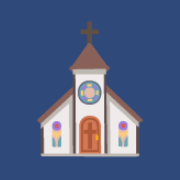
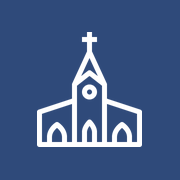
Novo ícone de igreja e imagem de compartilhamento para o WhatsApp
Ícone em azul com a igreja branca (Icons8, com crédito no rodapé) e
compartilhar.jpg (1200x630) nas tags og:image.

Claude-Session: https://claude.ai/code/session_019zbxNGYw6d3AGwf3qqFRis

Changed region(s): [[0.1944, 0.1111, 0.8056, 0.8889]]

diff --git a/index.html b/index.html
@@ -7,8 +7,16 @@
   <meta name="description" content="Serviços, comércios e empresas de irmãos de várias igrejas, com referência pastoral.">
   <link rel="preconnect" href="https://fonts.googleapis.com">
   <link href="https://fonts.googleapis.com/css2?family=Inter:wght@400;500;600;700&display=swap" rel="stylesheet">
-  <link rel="icon" type="image/png" sizes="180x180" href="icone.png">
-  <link rel="icon" type="image/svg+xml" sizes="any" href="icone.svg">
+  <!-- Prévia do link no WhatsApp, Instagram e Facebook -->
+  <meta property="og:type" content="website">
+  <meta property="og:title" content="Guia de Negócios da Igreja">
+  <meta property="og:description" content="Antes de comprar em qualquer lugar, compre de um irmão em Cristo. Serviços, comércios e empresas de irmãos, todos com referência pastoral.">
+  <meta property="og:url" content="https://guia-de-negocios-da-igreja.pages.dev/">
+  <meta property="og:image" content="https://guia-de-negocios-da-igreja.pages.dev/compartilhar.jpg">
+  <meta property="og:image:width" content="1200">
+  <meta property="og:image:height" content="630">
+  <meta name="twitter:card" content="summary_large_image">
+  <link rel="icon" type="image/png" sizes="512x512" href="icone.png">
   <link rel="apple-touch-icon" href="apple-touch-icon.png">
   <link rel="stylesheet" href="estilo.css">
   <script>
@@ -69,6 +77,7 @@
         A referência não é garantia do serviço — combine tudo direto com o irmão.</p>
       <p class="versiculo-rodape">“Por isso, enquanto tivermos oportunidade, façamos o bem a todos, mas principalmente aos da família da fé.” <span>Gálatas 6:10</span></p>
       <p class="rodape-acao"><a class="botao botao-azul botao-rodape" href="cadastro.html">Quero cadastrar meu negócio</a></p>
+      <p class="credito">Ícone de igreja por <a href="https://icons8.com" target="_blank" rel="noopener">Icons8</a></p>
     </div>
   </footer>
 

diff --git a/cadastro-enviado.html b/cadastro-enviado.html
@@ -7,8 +7,7 @@
   <meta name="robots" content="noindex">
   <link rel="preconnect" href="https://fonts.googleapis.com">
   <link href="https://fonts.googleapis.com/css2?family=Inter:wght@400;500;600;700&display=swap" rel="stylesheet">
-  <link rel="icon" type="image/png" sizes="180x180" href="icone.png">
-  <link rel="icon" type="image/svg+xml" sizes="any" href="icone.svg">
+  <link rel="icon" type="image/png" sizes="512x512" href="icone.png">
   <link rel="apple-touch-icon" href="apple-touch-icon.png">
   <link rel="stylesheet" href="estilo.css">
   <script>

diff --git a/cadastro.html b/cadastro.html
@@ -6,8 +6,7 @@
   <title>Cadastrar Negócio</title>
   <link rel="preconnect" href="https://fonts.googleapis.com">
   <link href="https://fonts.googleapis.com/css2?family=Inter:wght@400;500;600;700&display=swap" rel="stylesheet">
-  <link rel="icon" type="image/png" sizes="180x180" href="icone.png">
-  <link rel="icon" type="image/svg+xml" sizes="any" href="icone.svg">
+  <link rel="icon" type="image/png" sizes="512x512" href="icone.png">
   <link rel="apple-touch-icon" href="apple-touch-icon.png">
   <link rel="stylesheet" href="estilo.css">
   <script>

diff --git a/estilo.css b/estilo.css
@@ -294,3 +294,6 @@ a.botao-grande { text-align: center; }
   .linha-filtros { grid-template-columns: repeat(2, minmax(0, 406px)); justify-content: center; column-gap: 24px; }
   .filtro-igreja select { flex: 1; width: auto; min-width: 0; }
 }
+
+.rodape .credito { font-size: .75rem; margin-top: 12px !important; }
+.rodape .credito a { font-weight: 400; color: var(--suave); }
